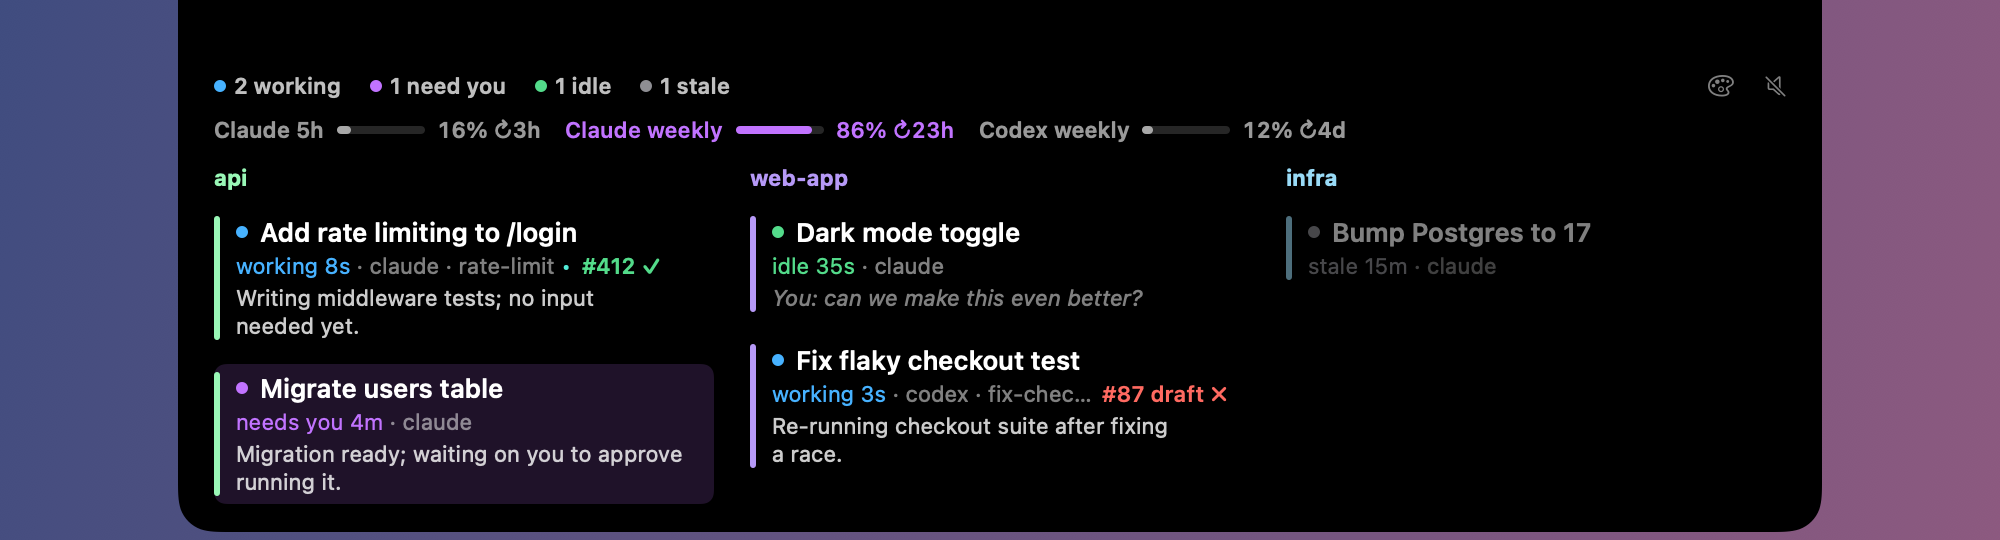
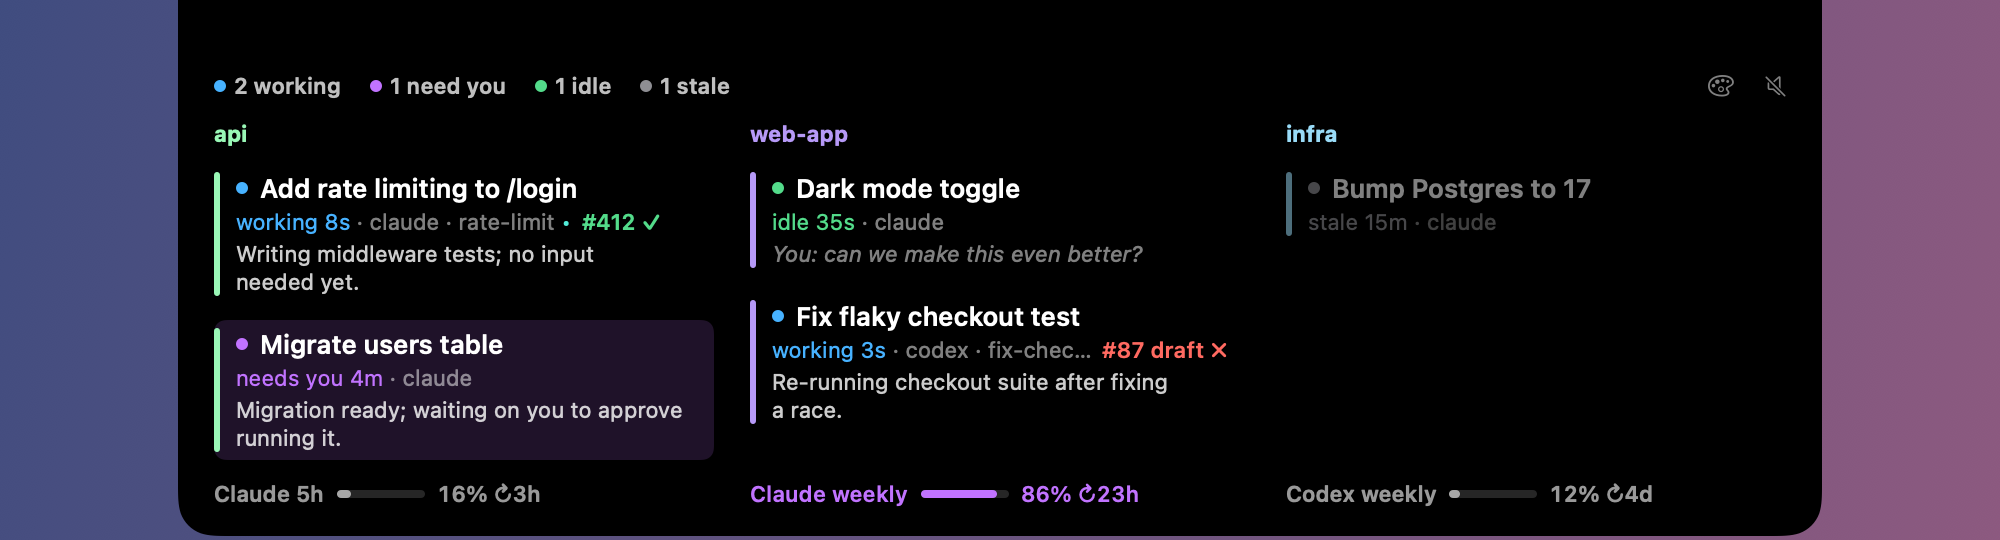
feat(notch): move inline usage limits to responsive footer

diff --git a/notch/Notch.swift b/notch/Notch.swift
@@ -272,6 +272,7 @@ struct NotchView: View {
     var room: CGFloat = 1400 // width available to the open panel
     @State var open = false
     @State private var columnsSize: CGSize = .zero
+    @State private var limitsHeight: CGFloat = 0
     @AppStorage("palette") private var paletteID = "cool"
     @AppStorage("notificationSoundsMuted") private var notificationSoundsMuted = false
     var forcedPalette: Palette? = nil // snapshots
@@ -283,15 +284,7 @@ struct NotchView: View {
                 Spacer().frame(height: notch.height - 6)
                 let repos = groups(store.sessions)
                 let contentWidth = max(264, min(room - 36, CGFloat(repos.count) * (colW + 18) - 18))
-                let showBars = contentWidth >= 3 * colW + 36
-                ViewThatFits(in: .horizontal) {
-                    header(showLimits: true, bars: true)
-                    if !showBars { header(showLimits: true) }
-                    VStack(alignment: .leading, spacing: 8) {
-                        header(showLimits: false)
-                        if !store.limits.isEmpty { limitsRow(bars: showBars) }
-                    }
-                }.frame(width: contentWidth)
+                header.frame(width: contentWidth)
                 if store.sessions.isEmpty {
                     Text("No active sessions").foregroundStyle(.secondary)
                 }
@@ -301,7 +294,7 @@ struct NotchView: View {
                 // (sideways for many repos, down for many sessions).
                 let cols = columns(repos)
                     .onGeometryChange(for: CGSize.self) { $0.size } action: { columnsSize = $0 }
-                let (maxW, maxH) = (room - 36, 520 - notch.height)
+                let (maxW, maxH) = (room - 36, 520 - notch.height - (store.limits.isEmpty ? 0 : limitsHeight + 10))
                 let (wide, tall) = (columnsSize.width > maxW, columnsSize.height > maxH)
                 if wide || tall {
                     ScrollView(wide && tall ? [.horizontal, .vertical] : wide ? .horizontal : .vertical, showsIndicators: tall) { cols }
@@ -309,6 +302,10 @@ struct NotchView: View {
                     if wide { Text("scroll sideways for more repos").font(.system(size: 10)).foregroundStyle(.secondary) }
                 } else {
                     cols
+                }
+                if !store.limits.isEmpty {
+                    limitsFooter.frame(width: contentWidth)
+                        .onGeometryChange(for: CGFloat.self) { $0.size.height } action: { limitsHeight = $0 }
                 }
             } else if let f = store.finished {
                 Spacer().frame(height: notch.height)
@@ -356,35 +353,31 @@ struct NotchView: View {
         .padding(.trailing, beside ? trailing : 0)
     }
 
-    func header(showLimits: Bool, bars: Bool = false) -> some View {
+    var header: some View {
         HStack(spacing: 14) {
             count("working", p.working) { $0.status == "busy" }
             count("need you", p.needs) { $0.needs == true }
             count("idle", p.idle) { $0.status != "busy" && $0.needs != true && $0.stale != true }
             count("stale", p.stale) { $0.stale == true }
             Spacer(minLength: 24)
-            if showLimits && !store.limits.isEmpty { limitsRow(bars: bars) }
             paletteMenu
             soundToggle
         }.font(.system(size: 11, weight: .semibold))
     }
 
-    func limitsRow(bars: Bool) -> some View {
-        HStack(spacing: 12) {
+    var limitsFooter: some View {
+        LazyVGrid(columns: [GridItem(.adaptive(minimum: colW), spacing: 18, alignment: .leading)], alignment: .leading, spacing: 8) {
             ForEach(store.limits.flatMap { t in t.windows.map { ("\(t.tool) \($0.label)", $0) } }, id: \.0) { label, w in
                 let c = w.used >= 95 ? p.failing : w.used >= 80 ? p.warn : .white.opacity(0.6)
-                let layout = bars ? AnyLayout(HStackLayout(spacing: 6)) : AnyLayout(VStackLayout(alignment: .leading, spacing: 2))
-                layout {
+                HStack(spacing: 6) {
                     Text(label)
-                    if bars {
-                        ZStack(alignment: .leading) {
-                            Capsule().fill(.white.opacity(0.15))
-                            Capsule().fill(c).frame(width: 44 * min(w.used, 100) / 100)
-                        }.frame(width: 44, height: 4)
-                    }
+                    ZStack(alignment: .leading) {
+                        Capsule().fill(.white.opacity(0.15))
+                        Capsule().fill(c).frame(width: 44 * min(w.used, 100) / 100)
+                    }.frame(width: 44, height: 4)
                     Text("\(Int(w.used.rounded()))%" + (w.reset.map { " ↻\($0)" } ?? "")).monospacedDigit()
                 }
-                .font(.system(size: bars ? 11 : 10, weight: .semibold))
+                .font(.system(size: 11, weight: .semibold))
                 .foregroundStyle(c)
             }
         }

diff --git a/tests/NotchLayoutTests.swift b/tests/NotchLayoutTests.swift
@@ -18,23 +18,22 @@ import SwiftUI
             let expected = max(300, CGFloat(count) * 268 + 18) // columns, gaps and panel padding
             assert(abs(image.size.width - expected) < 1, "Usage widened \(count) repos to \(image.size.width)pt")
             let usage = usageShape(image)
-            assert(usage.bar == (count >= 3), "Wrong progress bar visibility for \(count) repos")
-            if usage.bar { assert(usage.height < 18, "Usage label, bar and value should share one line") }
+            assert(usage.bar, "Usage bars are missing for \(count) repos")
+            assert(usage.height < 18, "Usage label, bar and value should share one line")
             if count == 3 {
                 let narrow = NotchView(store: store, notch: view.notch, room: 600, open: true, forcedPalette: .named("cool"))
                 let narrowImage = ImageRenderer(content: narrow).nsImage!
-                assert(!usageShape(narrowImage).bar, "Less available width should hide bars even with three repos")
+                assert(usageShape(narrowImage).bar, "Narrow footers should wrap usage items and keep their bars")
             }
             store.limits = []
             let withoutLimits = ImageRenderer(content: view).nsImage!
-            if count < 3 {
-                assert(image.size.height > withoutLimits.size.height, "Compact limits are missing for \(count) repos")
-            }
+            assert(image.size.height > withoutLimits.size.height, "Footer is missing for \(count) repos")
+            assert(CGFloat(usage.top) >= withoutLimits.size.height - 4, "Limits should appear below the sessions")
         }
         print("Notch layout tests passed")
     }
 
-    static func usageShape(_ image: NSImage) -> (bar: Bool, height: Int) {
+    static func usageShape(_ image: NSImage) -> (bar: Bool, height: Int, top: Int) {
         let bitmap = NSBitmapImageRep(data: image.tiffRepresentation!)!
         var bar = false, firstY = bitmap.pixelsHigh, lastY = -1
         for y in 0..<bitmap.pixelsHigh {
@@ -47,6 +46,6 @@ import SwiftUI
                 if run >= 30 { bar = true } // A solid usage bar is longer than any text stroke.
             }
         }
-        return (bar, lastY - firstY + 1)
+        return (bar, lastY - firstY + 1, firstY)
     }
 }

diff --git a/README.md b/README.md
@@ -26,7 +26,7 @@ web-app
 
 - `ccs`: list sessions (`--watch` to refresh, `--json` for tools)
 - `ccs --limits`: Claude 5h/weekly and Codex usage, read from what each tool caches locally (no tokens or network). With the default Cool palette, a bar turns violet at 80% and coral at 95%.
-- `notch`: macOS overlay; hover the notch to see sessions. Usage limits show percentages and reset times; narrow panels hide progress bars and move limits below the controls when needed. Palettes: Cool (default), Soft, Focus, Vivid. Click the palette icon in the panel header for the next one, right-click to pick; remembered. `--palette <id>` for one run.
+- `notch`: macOS overlay; hover the notch to see sessions. Usage limits sit below the sessions with inline bars, percentages and reset times; narrow panels wrap them into rows. Palettes: Cool (default), Soft, Focus, Vivid. Click the palette icon in the panel header for the next one, right-click to pick; remembered. `--palette <id>` for one run.
 - `hooks/summarize.sh`: Claude Code Stop hook that writes a one-line AI summary per session (Haiku, at most once per 3 min per session)
 - `hooks/statusline.sh`: optional Claude Code status line; a second source for the Claude limits when `~/.claude.json` has none
 
